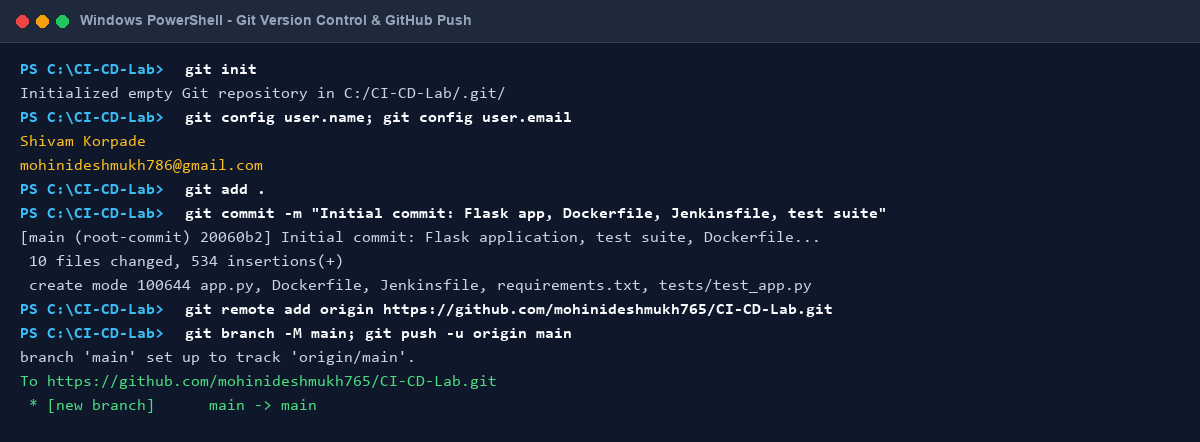
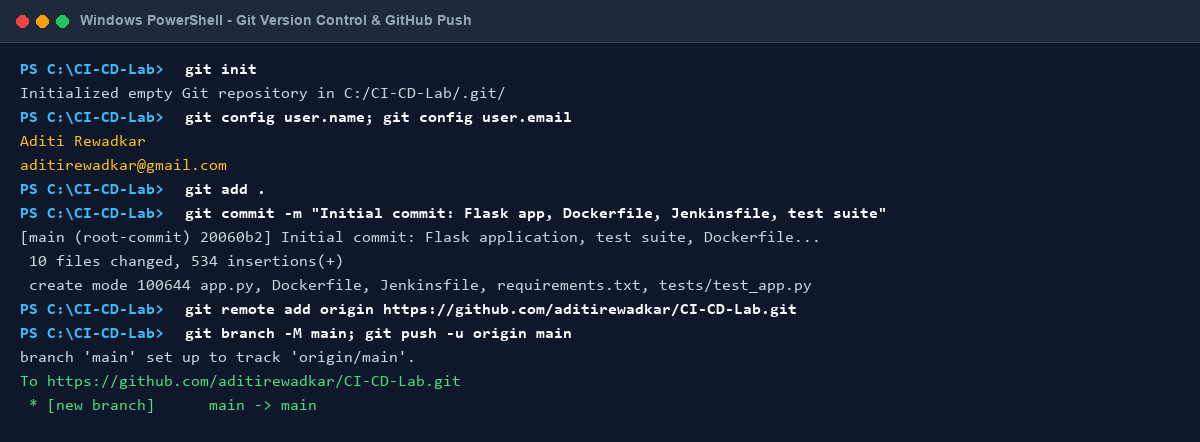
Update student credentials to Aditi Rewadkar (PRN: 2425010132, Roll No: DS75)

Changed region(s): [[0.0, 0.2941, 0.2158, 0.4118], [0.4625, 0.6765, 0.7092, 0.7353], [0.185, 0.8529, 0.4008, 0.8824]]

diff --git a/tests/test_app.py b/tests/test_app.py
@@ -15,8 +15,8 @@ def test_index_route(client):
     response = client.get("/")
     assert response.status_code == 200
     assert b"CI/CD Pipeline &amp; Monitoring Lab" in response.data or b"CI/CD Pipeline & Monitoring Lab" in response.data
-    assert b"Shivam Korpade" in response.data
-    assert b"2324000756" in response.data
+    assert b"Aditi Rewadkar" in response.data
+    assert b"2425010132" in response.data
 
 def test_health_endpoint(client):
     response = client.get("/health")
@@ -40,8 +40,8 @@ def test_info_endpoint(client):
     response = client.get("/info")
     assert response.status_code == 200
     json_data = response.get_json()
-    assert json_data["author"] == "Shivam Korpade"
-    assert json_data["prn"] == "2324000756"
+    assert json_data["author"] == "Aditi Rewadkar"
+    assert json_data["prn"] == "2425010132"
 
 def test_not_found(client):
     response = client.get("/non-existent-route")

diff --git a/app.py b/app.py
@@ -192,8 +192,8 @@ def count_requests():
 def index():
     return render_template_string(
         HTML_TEMPLATE,
-        student_name="Shivam Korpade",
-        roll_no="2324000756 (DS38)",
+        student_name="Aditi Rewadkar",
+        roll_no="2425010132 (DS75)",
         department="B.Tech CSE (Data Science) - Sem VII",
         academic_year="A.Y. 2026-27",
         version="1.0.0",
@@ -232,8 +232,8 @@ def info():
     return jsonify({
         "app_name": "CI-CD-Lab-App",
         "description": "Flask microservice demonstrating CI/CD pipeline automation and endpoint monitoring",
-        "author": "Shivam Korpade",
-        "prn": "2324000756",
+        "author": "Aditi Rewadkar",
+        "prn": "2425010132",
         "academic_year": "2026-27",
         "version": "1.0.0"
     }), 200

diff --git a/README.md b/README.md
@@ -1,7 +1,7 @@
 # CI/CD Pipeline & Monitoring Lab
 
-**Student Name:** Shivam Korpade  
-**PRN / Roll Number:** 2324000756 (Roll No: DS38)  
+**Student Name:** Aditi Rewadkar  
+**PRN / Roll Number:** 2425010132 (Roll No: DS75)  
 **Department / Class:** Department of CSE (Data Science) / Final Year B.Tech CSE (DS), Semester VII  
 **Academic Year:** A.Y. 2026-27  
 **Course:** DevOps & Cloud Computing / ISE-2 Lab  
